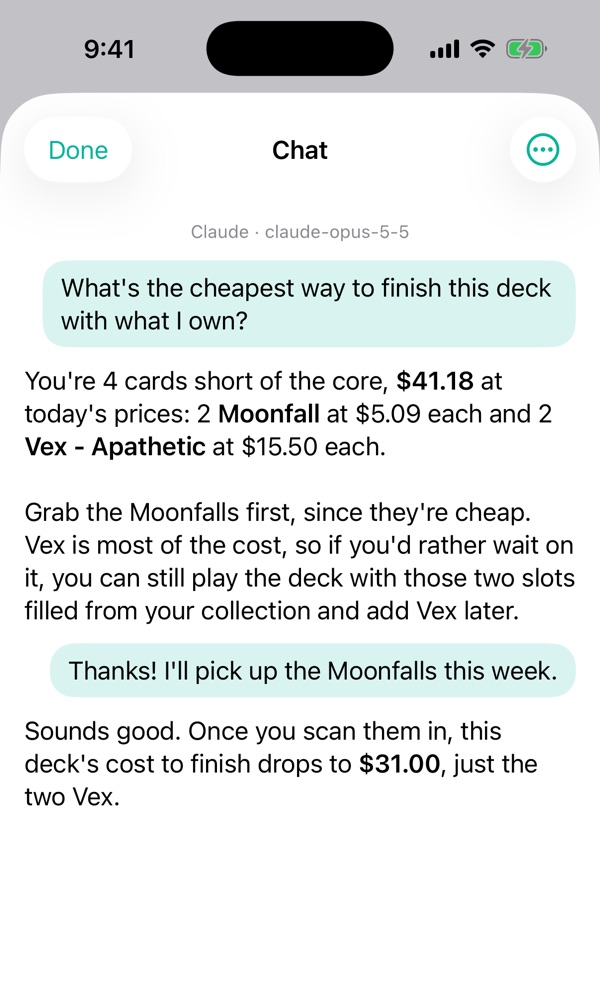
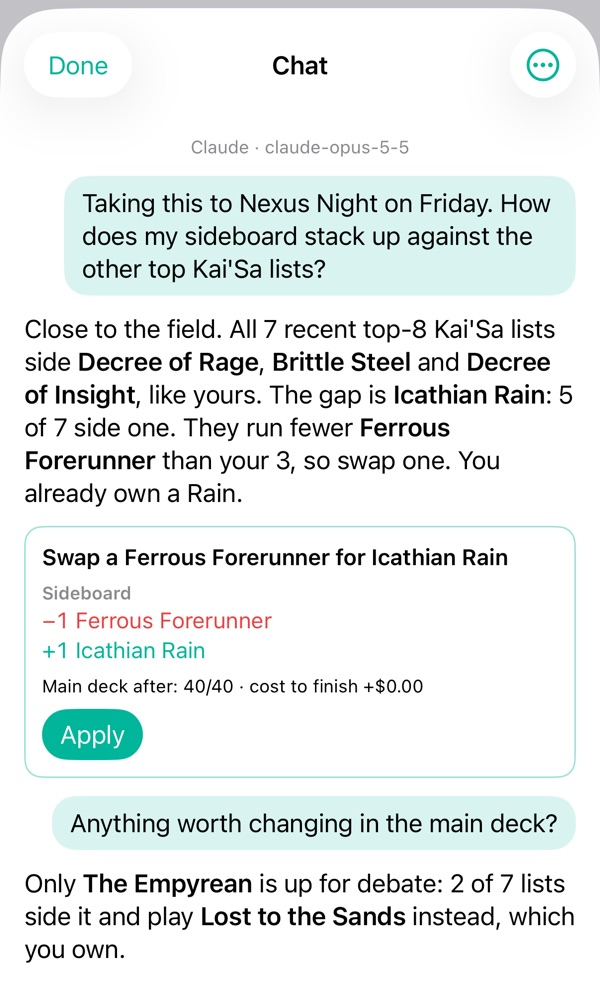
Show deck chat on a complete deck, talking sideboard and swaps

diff --git a/index.html b/index.html
@@ -33,6 +33,6 @@ layout: default
   <figure><img src="assets/img/openings.jpg" alt="Opened booster packs with the hits pulled" width="600" height="1005"><figcaption>Pack openings</figcaption></figure>
   <figure><img src="assets/img/events.jpg" alt="Event with its rounds and record" width="600" height="1005"><figcaption>Events</figcaption></figure>
   <figure><img src="assets/img/decks.jpg" alt="Top tournament decks ranked by cost to finish, with the share of each you already own" width="600" height="1005"><figcaption>Build from your collection</figcaption></figure>
-  <figure><img src="assets/img/chat.jpg" alt="Deck chat explaining the cheapest way to finish a deck from the cards you own" width="600" height="1005"><figcaption>Deck chat</figcaption></figure>
+  <figure><img src="assets/img/chat.jpg" alt="Deck chat about a complete Kai'Sa deck, suggesting a sideboard swap with an Apply button" width="600" height="1005"><figcaption>Deck chat</figcaption></figure>
 </div>
 <p class="note">Screenshots use sample data, and the deck chat shows a sample conversation.</p>
